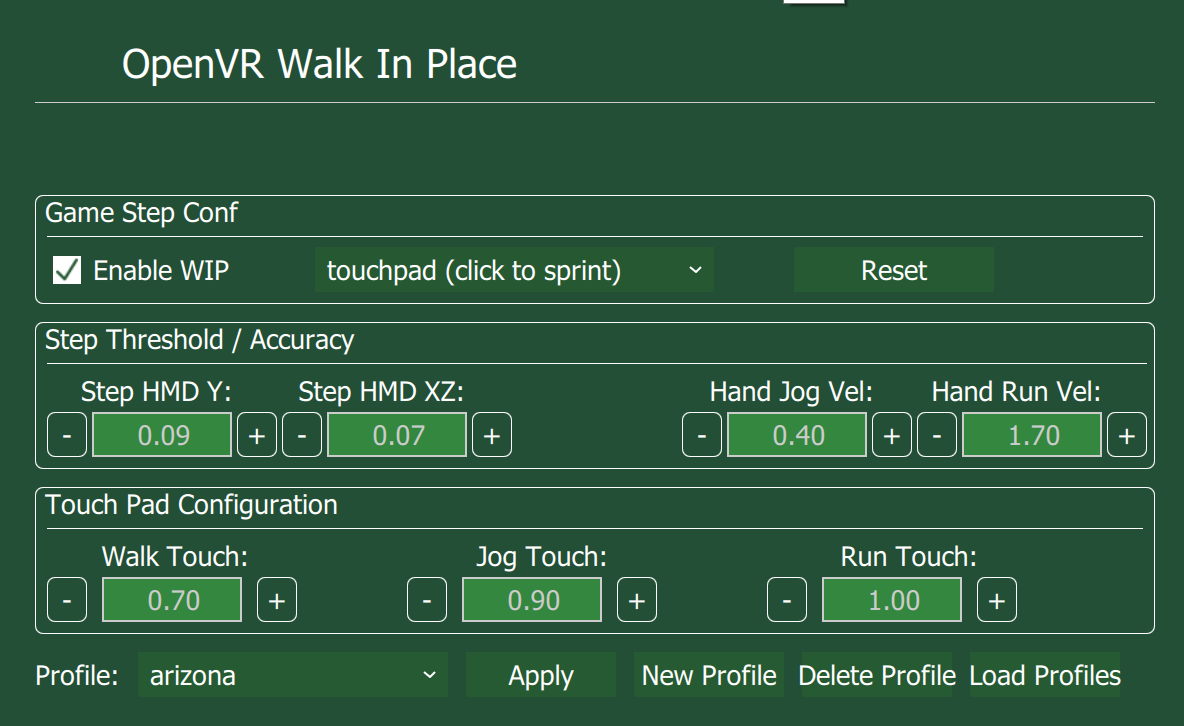
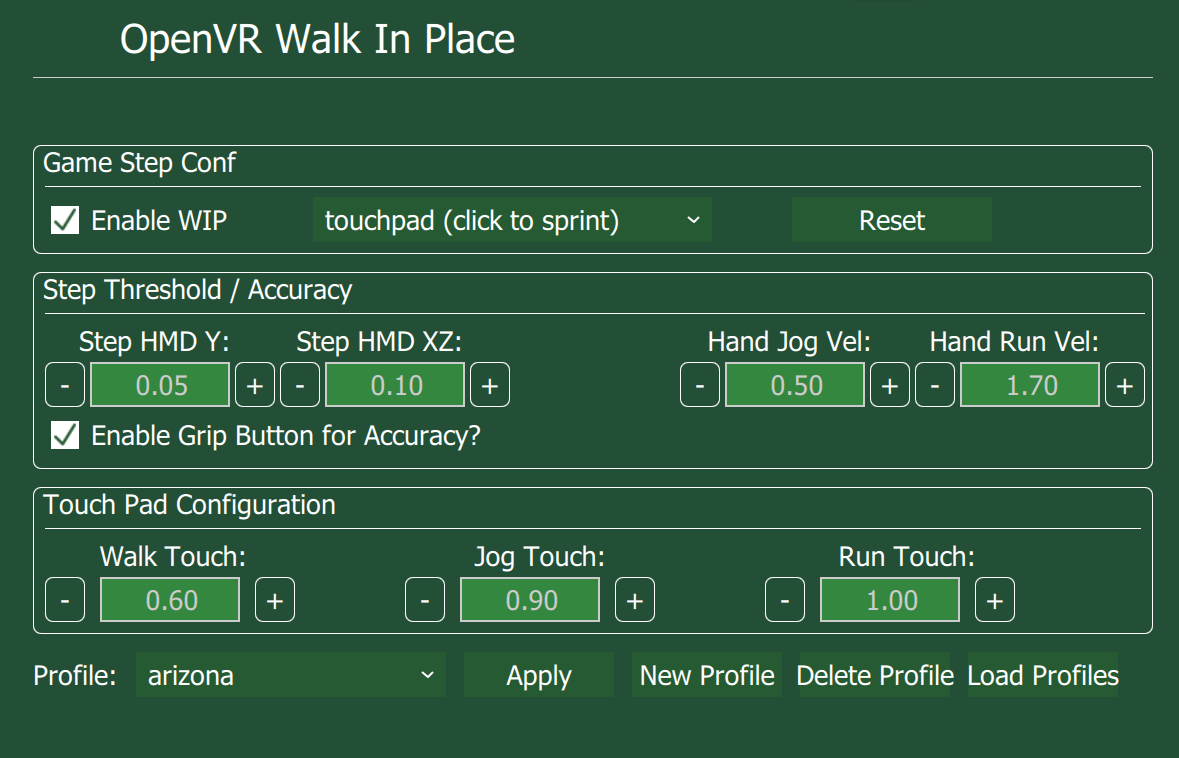
Merge branch 'master' of https://github.com/pottedmeat7/OpenVR-InputEmulator

diff --git a/Readme.md b/Readme.md
@@ -67,6 +67,9 @@ These values are for the magnitude of movement (X, Y and Z movement) of the arms
 
 The real time Controller values have to be greater then these values in order to Jog / Run.
 
+### Grip button for Accuracy
+This sets that a step will only be applied if you are pushing a grip button on a controller
+
 ### Touch Options
 These values will be applied to touch-pad locomotion for in order to apply different degrees of movement into the game.
 
